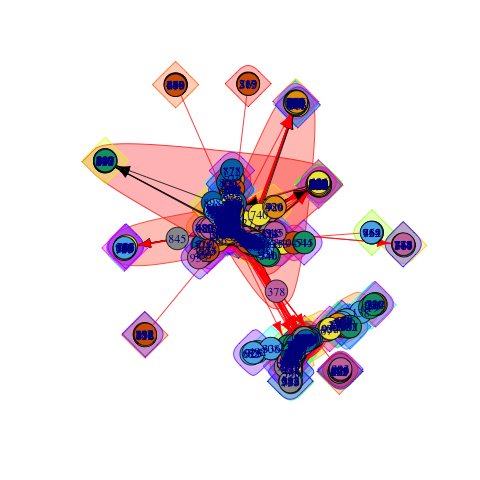
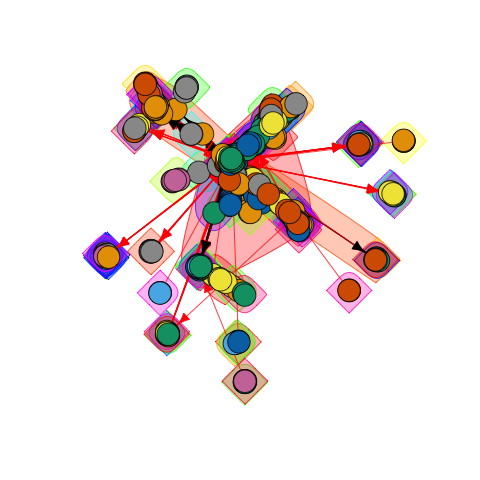
add submit folder

Changed region(s): [[0.1562, 0.125, 0.9062, 0.8438]]

diff --git a/HW1/report/report.tex b/HW1/report/report.tex
@@ -80,10 +80,17 @@ The average diameter of network is 20 after we run 100 times, and its degree dis
 \subsection{Part b}
 We repeated 100 times the graph is always connected.
 The GCC is the whole graph.
-Number of communities (best split) is 34.
-The modularity is 0.9348964.\\
+Number of communities (best split) is 34.\\
 \\
-The value of modularity is very big because connections between nodes in different modules are sparse, but between nodes in same modules are dense. 
+The modularity is 0.9348964. The value of modularity is very big because connections between nodes in different modules are sparse, but between nodes in same modules are dense. \\
+\\
+The structure of the GCC community is shown in figure \ref{fig:p2_3}.
+\begin{figure}[htbp]
+\centering
+\includegraphics[width=.6\textwidth]{p2_3.png}
+\caption{The structure of the GCC community}
+\label{fig:p2_3}
+\end{figure}
 \subsection{Part c}
 When we build a graph with 10000 nodes, the best split number of community is 105 and the corresponding modularity becomes 0.9792582.
 It is greater than the modularity of the case with 1000 nodes.
@@ -92,10 +99,9 @@ We use histogram to describe the degree distribution. The result is shown in fig
 \begin{figure}[htbp]
 \centering
 \includegraphics[width=.6\textwidth]{p2_2.png}
-\caption{The distribution histogram of degreel}
+\caption{The distribution histogram of degree}
 \label{fig:p2_2}
 \end{figure}
-\\
 \\
 From the graph we can see that, the most common degree is 2.
 \section{Problem 3}
